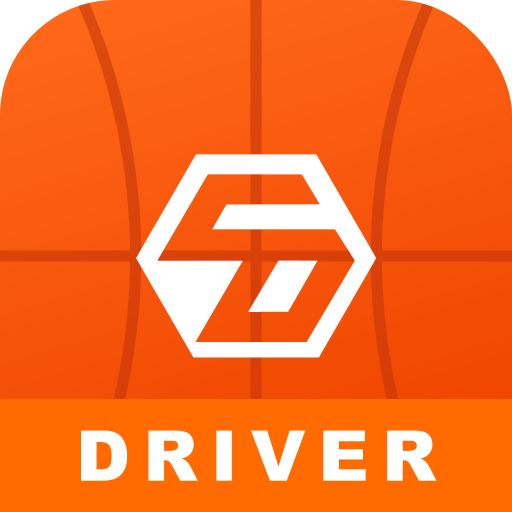
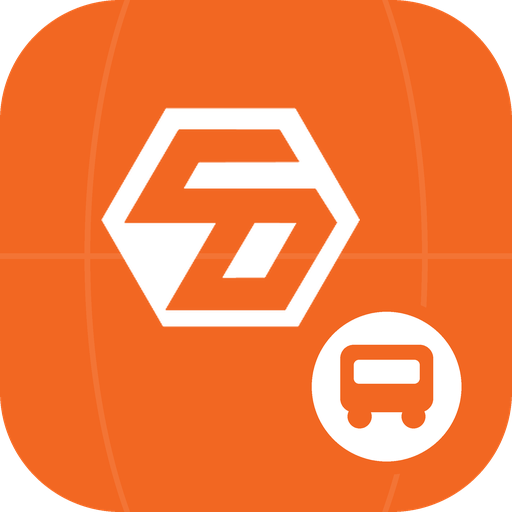
style(pwa): 앱 아이콘 이름 띠 제거 — 배경색 + 배지로 역할 구분
원장 지적: 아이콘 하단의 이름 띠가 보기 안 좋다.

■ 띠를 없앤 이유
  1. 홈 화면에서 아이콘은 50px 안팎으로 그려진다. 512px로 만든 띠 글자는 그
     크기에서 뭉개져 읽히지 않는다.
  2. 앱 이름(STIZ 교사용·STIZ 학부모)은 아이콘 바로 밑에 이미 표시된다.
     띠 글자는 같은 말을 두 번 하는 셈이었다.
  3. 기사님만 영어(DRIVER)라 셋이 따로 놀았다.

■ 대신 쓰는 방식 — 배경색 + 우하단 배지
  선생님=남색·클립보드 / 학부모=연두·가족 / 기사=주황·버스.
  색은 손톱만 한 크기에서도 구분되고, 배지 모양이 색을 보조한다.
  실제 60px 크기로 확대해 셋이 구분되는 것을 눈으로 확인했다.
  호루라기는 작게 줄이면 돋보기처럼 보여 클립보드로 바꿨다.

■ 같이 고친 것 — maskable 이 제구실을 못 하고 있었다
  안드로이드는 아이콘 바깥을 원·둥근사각으로 깎아낸다. 그래서 maskable 파일은
  가장자리를 비우고 가운데 80%에 내용을 모아야 하는데, 기존 파일은 일반 파일과
  내용이 똑같았다. 띠가 맨 아래 끝에 붙어 있어 깎이면 글자부터 잘려 나갔다.
  → maskable 은 모서리를 둥글리지 않고 꽉 채우되 내용은 안쪽으로 모았다.
     원형 크롭을 시뮬레이션해 아무것도 잘리지 않는 것을 확인했다.

■ 로고는 손으로 다시 그리지 않았다
  눈대중으로 브랜드 로고를 재현하면 모양이 틀어진다. 기존 공식 아이콘에서
  파랑 채널을 알파로 삼아 흰 로고만 뽑아 썼다(0/255로 자르면 확대할 때
  가장자리가 계단처럼 깨져 실패했다).

■ scripts/gen-driver-icons.mjs 삭제
  기사 아이콘에 'DRIVER' 주황 띠를 덧씌우는 옛 스크립트다. 남겨두면 나중에
  실행했을 때 기사 아이콘만 옛 방식으로 되돌아간다.
  scripts/make-role-icons.py 가 세 앱을 한 번에 만든다.

※ 이미 설치한 기기의 홈 화면 아이콘은 즉시 바뀌지 않는다. 안드로이드가 앱을
   다시 받아오거나 재설치해야 반영된다. 현재 설치자는 원장 1명뿐이다.

diff --git a/scripts/make-role-icons.py b/scripts/make-role-icons.py
@@ -1,0 +1,155 @@
+"""STIZ 역할별 앱 아이콘 생성.
+
+이름 띠(선생님/학부모/DRIVER)를 없애고 배경색 + 우하단 배지로 역할을 구분한다.
+글자는 홈 화면 크기(약 50px)에서 읽히지 않고, 앱 이름은 아이콘 밑에 이미 표시된다.
+
+로고는 손으로 그리지 않고 기존 공식 아이콘(icon-v2-512.png)에서 흰색 픽셀만
+뽑아 쓴다. 눈대중으로 브랜드 로고를 다시 그리면 모양이 틀어진다.
+"""
+from PIL import Image, ImageDraw
+import os
+
+SRC = "public/icon-v2-512.png"
+OUT = "public"
+S = 4  # 4배로 그린 뒤 줄여서 계단현상을 없앤다
+
+NAVY = (15, 30, 74)
+LIME = (204, 255, 0)
+ORANGE = (242, 103, 34)
+WHITE = (255, 255, 255)
+
+ROLES = [
+    # (파일이름, 배경색, 로고색, 배지바탕, 배지그림색, 그림종류)
+    ("teacher", NAVY, WHITE, WHITE, NAVY, "clipboard"),
+    ("parent", LIME, NAVY, NAVY, LIME, "family"),
+    ("driver", ORANGE, WHITE, WHITE, ORANGE, "bus"),
+]
+
+
+def load_logo():
+    """공식 아이콘에서 흰색 로고만 알파 마스크로 뽑아낸다.
+
+    0/255 로 딱 잘라내면 확대할 때 가장자리가 계단처럼 깨진다. 주황 배경은 파랑이
+    거의 없고(B≈34) 로고는 흰색(B=255)이라, 파랑 채널을 그대로 알파로 쓰면
+    원본의 부드러운 가장자리가 그대로 살아난다.
+    """
+    img = Image.open(SRC).convert("RGBA")
+    w, h = img.size
+    px = img.load()
+    mask = Image.new("L", (w, h), 0)
+    mp = mask.load()
+    lo, hi = 90, 245
+    for y in range(h):
+        for x in range(w):
+            r, g, b, a = px[x, y]
+            if a < 250 or r < 200:
+                continue  # 바깥 둥근 모서리와 어두운 솔기는 제외
+            t = (b - lo) / (hi - lo)
+            mp[x, y] = max(0, min(255, round(t * 255)))
+    return mask.crop(mask.getbbox())
+
+
+def blend(c1, c2, t):
+    return tuple(round(c1[i] * (1 - t) + c2[i] * t) for i in range(3))
+
+
+def draw_seams(d, W, bg):
+    """농구공 솔기. 배경색과 거의 차이 없게 깔아 브랜드 느낌만 남긴다."""
+    dark = sum(bg) > 400
+    seam = blend(bg, (0, 0, 0) if dark else (255, 255, 255), 0.085)
+    lw = max(1, round(W * 0.011))
+    d.line([(0, W // 2), (W, W // 2)], fill=seam, width=lw)
+    # 세로 직선은 로고에 가려 보이지 않고, 곡선 두 줄만 남기면 농구공 솔기로 읽힌다.
+    rx, ry = round(W * 0.335), round(W * 0.78)
+    d.ellipse([W // 2 - rx, W // 2 - ry, W // 2 + rx, W // 2 + ry], outline=seam, width=lw)
+
+
+def draw_glyph(d, kind, cx, cy, R, color, bgc):
+    """배지 안의 그림. 홈 화면에서 10px 남짓이라 단순한 실루엣으로만 그린다."""
+    if kind == "clipboard":
+        # 코치 클립보드. 호루라기는 작게 줄이면 돋보기처럼 보여 알아볼 수 없었다.
+        d.rounded_rectangle(
+            [cx - 0.46 * R, cy - 0.56 * R, cx + 0.46 * R, cy + 0.62 * R],
+            radius=0.15 * R, fill=color,
+        )
+        d.rounded_rectangle(
+            [cx - 0.22 * R, cy - 0.72 * R, cx + 0.22 * R, cy - 0.44 * R],
+            radius=0.10 * R, fill=color,
+        )
+        d.rounded_rectangle(
+            [cx - 0.26 * R, cy - 0.20 * R, cx + 0.26 * R, cy - 0.06 * R],
+            radius=0.07 * R, fill=bgc,
+        )
+        d.rounded_rectangle(
+            [cx - 0.26 * R, cy + 0.10 * R, cx + 0.10 * R, cy + 0.24 * R],
+            radius=0.07 * R, fill=bgc,
+        )
+    elif kind == "family":
+        # 어른
+        d.ellipse([cx - 0.62 * R, cy - 0.62 * R, cx - 0.18 * R, cy - 0.18 * R], fill=color)
+        d.pieslice([cx - 0.76 * R, cy - 0.22 * R, cx - 0.04 * R, cy + 0.62 * R], 180, 360, fill=color)
+        # 아이
+        d.ellipse([cx + 0.06 * R, cy - 0.34 * R, cx + 0.40 * R, cy], fill=color)
+        d.pieslice([cx - 0.04 * R, cy - 0.06 * R, cx + 0.50 * R, cy + 0.60 * R], 180, 360, fill=color)
+    elif kind == "bus":
+        d.rounded_rectangle(
+            [cx - 0.62 * R, cy - 0.56 * R, cx + 0.62 * R, cy + 0.34 * R],
+            radius=0.18 * R, fill=color,
+        )
+        d.rounded_rectangle(
+            [cx - 0.44 * R, cy - 0.36 * R, cx + 0.44 * R, cy - 0.04 * R],
+            radius=0.07 * R, fill=bgc,
+        )
+        d.ellipse([cx - 0.52 * R, cy + 0.24 * R, cx - 0.20 * R, cy + 0.56 * R], fill=color)
+        d.ellipse([cx + 0.20 * R, cy + 0.24 * R, cx + 0.52 * R, cy + 0.56 * R], fill=color)
+
+
+def build(logo, size, bg, logo_color, badge_bg, glyph_color, glyph, maskable):
+    W = size * S
+    img = Image.new("RGBA", (W, W), (0, 0, 0, 0))
+    d = ImageDraw.Draw(img)
+
+    if maskable:
+        # 안드로이드가 바깥을 깎아내므로 모서리를 둥글리지 않고 꽉 채운다.
+        d.rectangle([0, 0, W, W], fill=bg + (255,))
+    else:
+        d.rounded_rectangle([0, 0, W - 1, W - 1], radius=round(W * 0.235), fill=bg + (255,))
+    draw_seams(d, W, bg)
+
+    # maskable 은 가운데 80% 안에 내용을 모은다. 깎여도 잘리지 않게.
+    lscale, lcx, lcy = (0.435, 0.445, 0.425) if maskable else (0.505, 0.450, 0.425)
+    bcx, bcy, br = (0.680, 0.680, 0.122) if maskable else (0.755, 0.755, 0.146)
+
+    lw = round(W * lscale)
+    lh = round(lw * logo.height / logo.width)
+    lg = logo.resize((lw, lh), Image.LANCZOS)
+    plate = Image.new("RGBA", (W, W), logo_color + (0,))
+    plate.putalpha(Image.new("L", (W, W), 0))
+    solid = Image.new("RGBA", (lw, lh), logo_color + (255,))
+    img.paste(solid, (round(W * lcx - lw / 2), round(W * lcy - lh / 2)), lg)
+
+    # 배지 둘레에 배경색 링을 둘러 로고와 겹쳐 보이지 않게 한다.
+    cx, cy = W * bcx, W * bcy
+    ring = br * W + W * 0.026
+    d.ellipse([cx - ring, cy - ring, cx + ring, cy + ring], fill=bg + (255,))
+    r = br * W
+    d.ellipse([cx - r, cy - r, cx + r, cy + r], fill=badge_bg + (255,))
+    draw_glyph(d, glyph, cx, cy, r, glyph_color + (255,), badge_bg + (255,))
+
+    return img.resize((size, size), Image.LANCZOS)
+
+
+def main():
+    logo = load_logo()
+    print(f"logo {logo.size}")
+    for name, bg, lc, bb, gc, glyph in ROLES:
+        for size in (192, 512):
+            for maskable in (False, True):
+                img = build(logo, size, bg, lc, bb, gc, glyph, maskable)
+                tag = "-maskable" if maskable else ""
+                path = f"{OUT}/icon-{name}{tag}-{size}.png"
+                img.save(path)
+                print(path, os.path.getsize(path))
+
+
+main()
